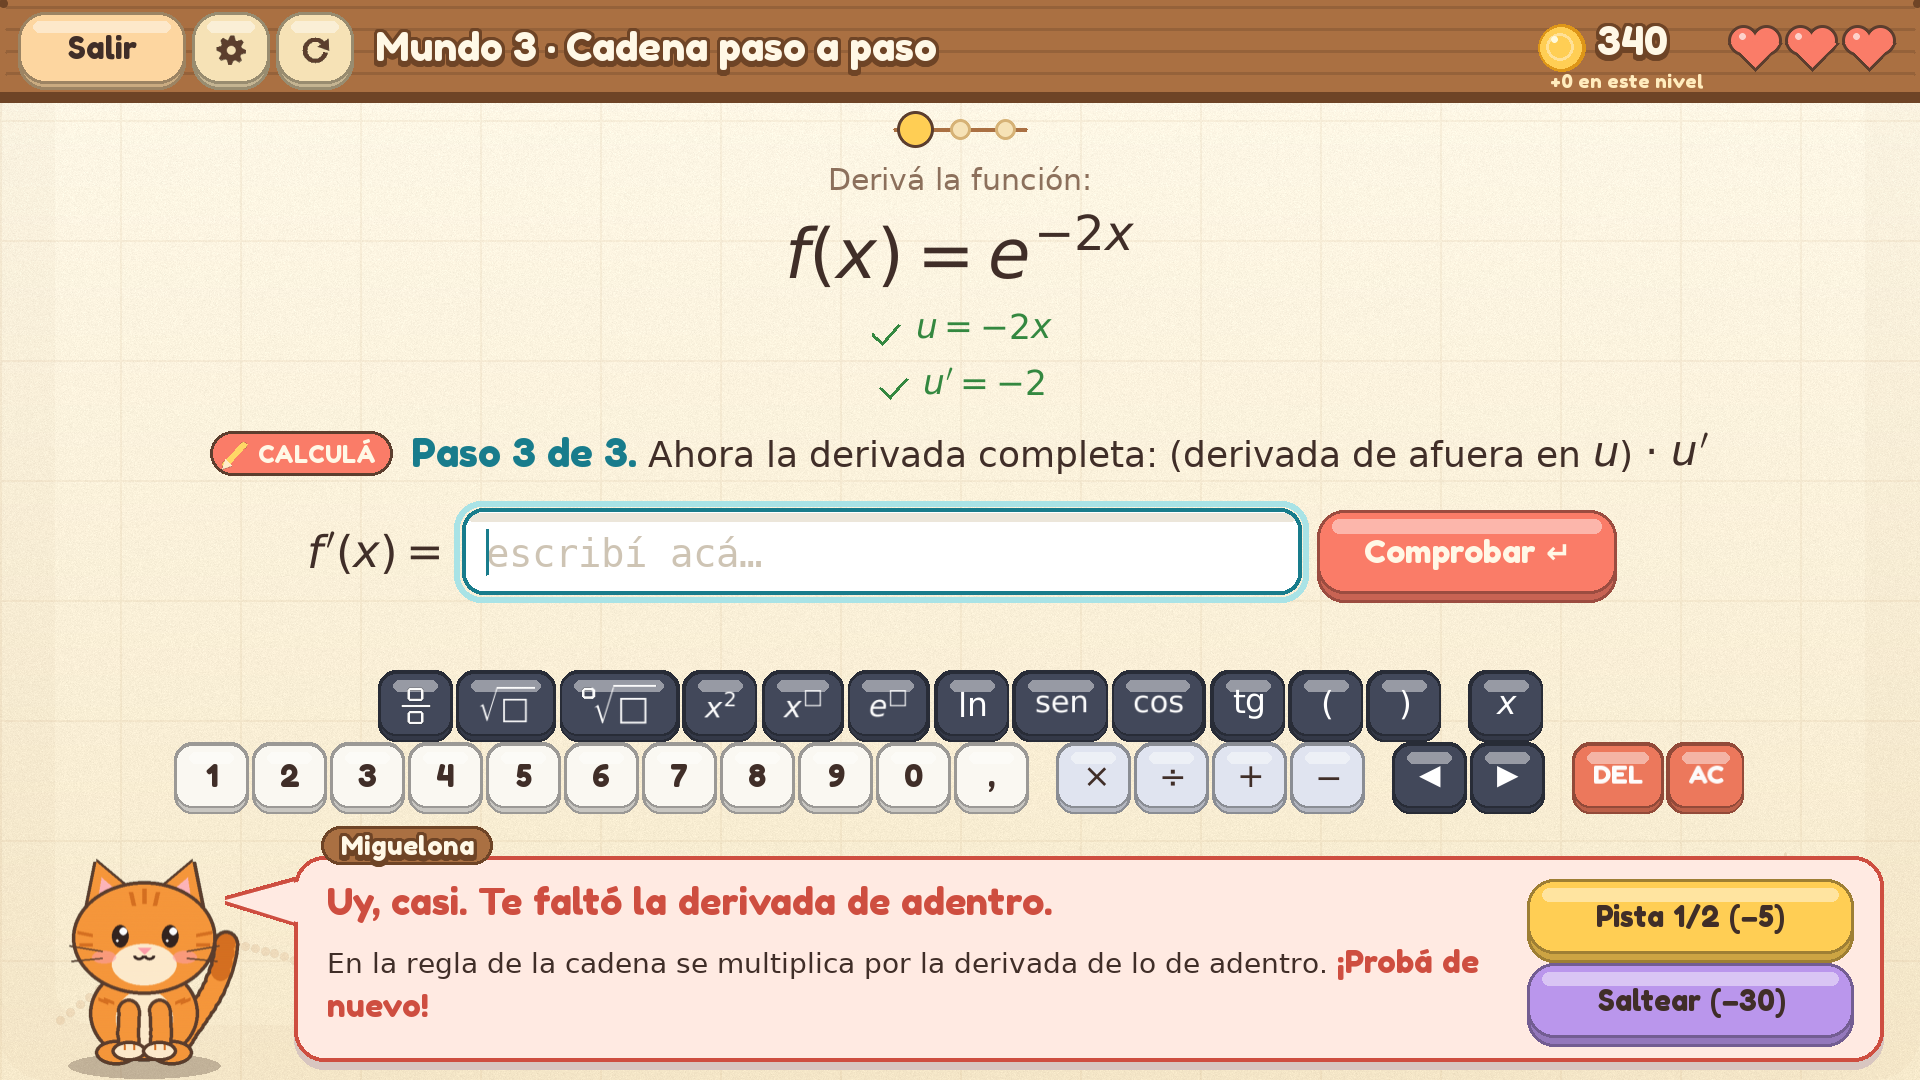
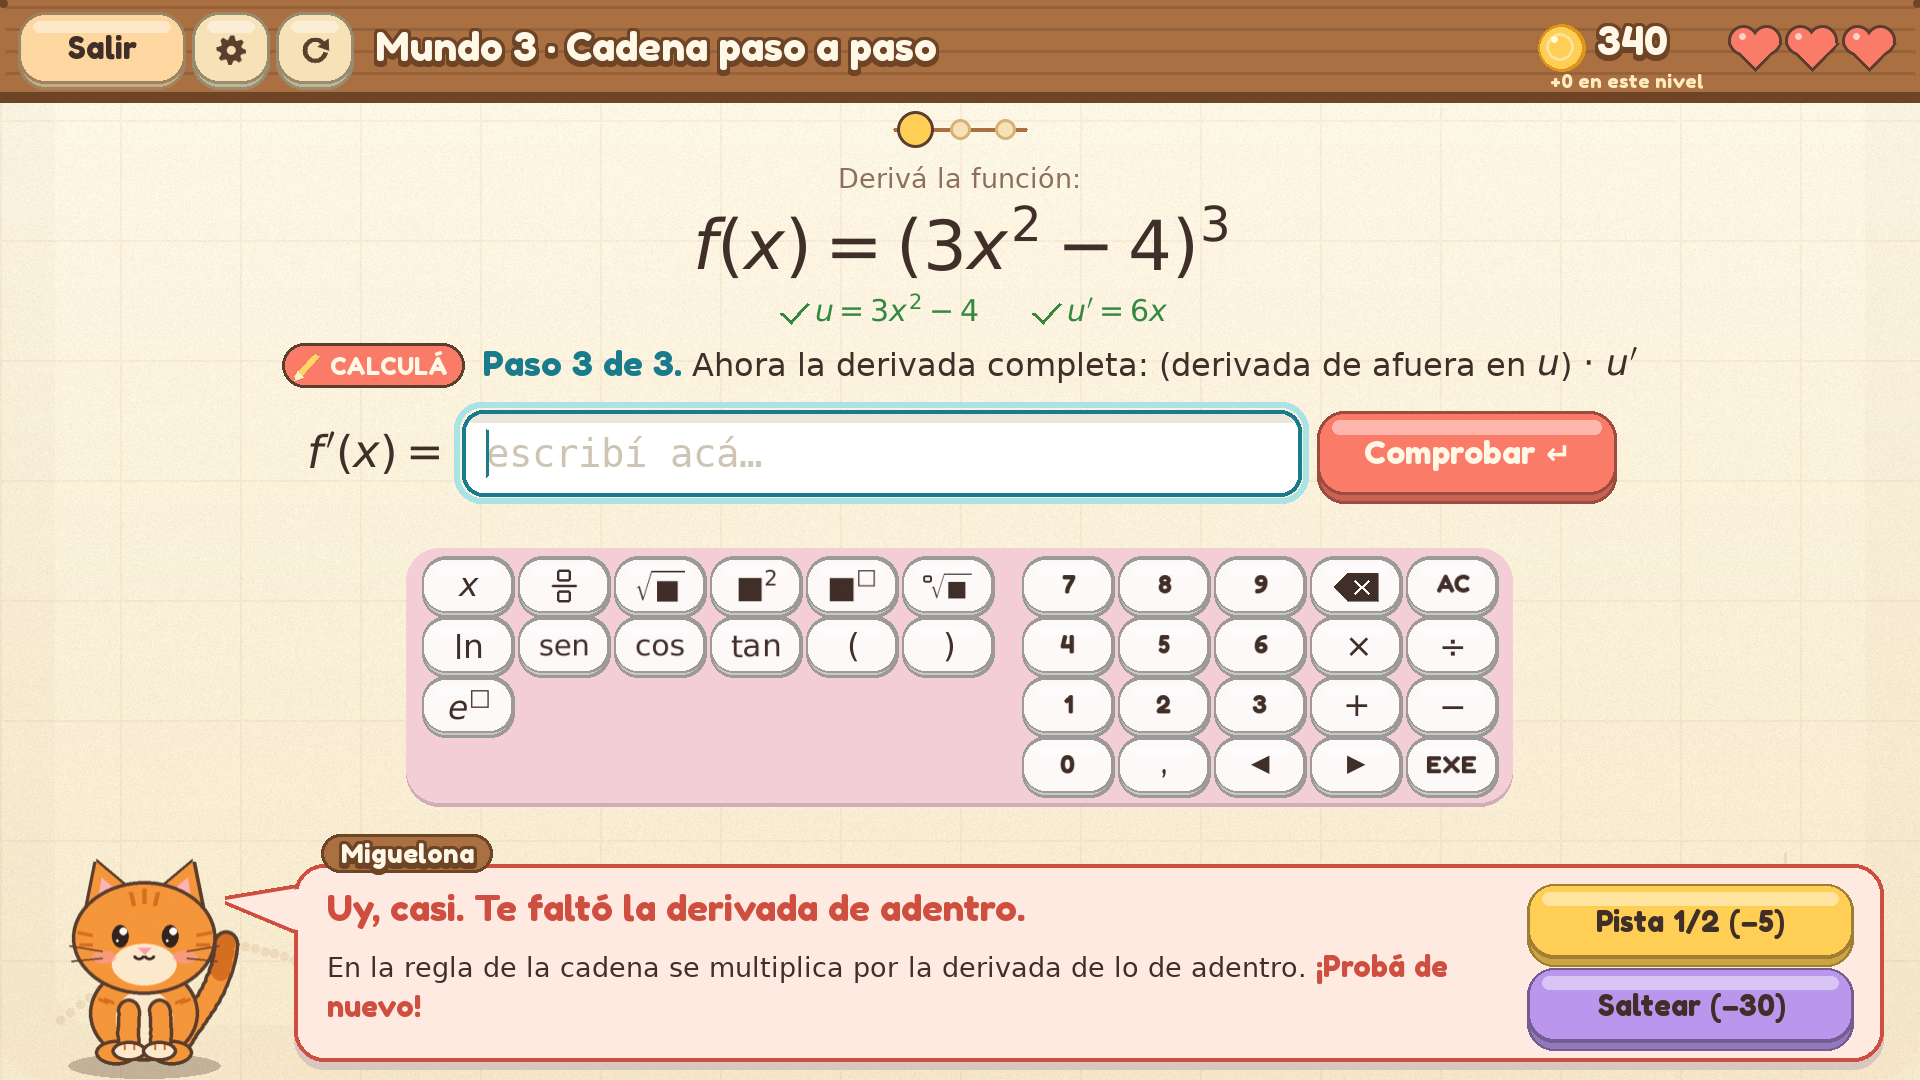
Teclado copiado de la foto de la fx-991LA CW
Con la foto de la calculadora: teclas claras con letra oscura sobre una placa rosa, bloque de
funciones a la izquierda (x, □/□, √■, ■², ■^□ como en la calculadora; ⁿ√■, ln, e^□ y las
variables o + C, que el juego necesita, en el lugar de log y Ans) y bloque numérico a la
derecha igual al de la calculadora (7 8 9 ⌫ AC / 4 5 6 × ÷ / 1 2 3 + − / 0 , ◀ ▶ EXE), con ◀ ▶
en el lugar de ×10^■ y FORMAT. ■ es lo ya escrito y □ lo que falta completar. sen, cos, tan
como la calculadora. EXE comprueba.

El teclado en bloque es más alto: en las pantallas más cargadas las teclas también se achican
un poco (36 → 30 px). Superposición: 7.830 pantallas sin nada pisado.

Claude-Session: https://claude.ai/code/session_01AgBxcwVDKiy9WDAWDw1sef

Changed region(s): [[0.0938, 0.1528, 1.0, 0.9778]]

diff --git a/juego/escenas/nivel_pantalla.py b/juego/escenas/nivel_pantalla.py
@@ -92,21 +92,22 @@ def flecha_reiniciar(sup, centro, tam, color):
 # operaciones, potencias y raíces, funciones. Los extras (y, z, +C, π, e) van al final.
 @dataclass(frozen=True)
 class Tecla:
-    """Una tecla del teclado de fórmulas (como las de la calculadora Casio fx-991LA CW).
-    etiqueta: lo que se ve (LaTeX sin $, o texto). texto: lo que escribe; retroceso: cuántos lugares
-    vuelve el cursor después (para quedar adentro del paréntesis o del casillero). accion: en vez de
-    escribir, mueve el cursor o borra ("izquierda", "derecha", "borrar", "limpiar")."""
+    """Una tecla del teclado de fórmulas, copiado de la calculadora Casio fx-991LA CW.
+    etiqueta: lo que se ve (LaTeX sin $, o texto). Como en la calculadora, ■ es lo que ya escribiste
+    y □ el casillero que falta completar. texto: lo que escribe; retroceso: cuántos lugares vuelve el
+    cursor después (para quedar adentro del paréntesis). accion: en vez de escribir, mueve el cursor,
+    borra o comprueba ("izquierda", "derecha", "borrar", "limpiar", "comprobar")."""
     etiqueta: str
     texto: str = ""
     retroceso: int = 0
-    estilo: str = "funcion"       # funcion | variable | numero | operacion | borrar
     accion: str = ""
     formula: bool = True          # la etiqueta se dibuja como fórmula
-    icono: str = ""               # o se dibuja a mano (fracción, raíz enésima): ver _ICONOS
+    icono: str = ""               # o se dibuja a mano: ver _ICONOS
+    grande: bool = False          # los números, con letra más grande (como en la calculadora)
 
 
 def _icono_fraccion(color):
-    """□ arriba, rayita, □ abajo (como la tecla de fracción de la calculadora)."""
+    """□ arriba, rayita, □ abajo (la tecla de fracción de la calculadora)."""
     s = Lienzo(24, 30)
     dibujo.rect(s, color, (6, 1, 12, 10), 2, border_radius=2)
     dibujo.line(s, color, (2, 15), (22, 15), 2)
@@ -115,52 +116,50 @@ def _icono_fraccion(color):
 
 
 def _icono_raiz_n(color):
-    """Raíz con un □ chiquito de índice y un □ adentro."""
-    raiz = ui.formula(r"\sqrt{□}", 24, color).sup
+    """Raíz con un □ chiquito de índice y ■ adentro."""
+    raiz = ui.formula(r"\sqrt{■}", 24, color).sup
     s = Lienzo(raiz.get_width() + 9, 30)
     dibujo.rect(s, color, (1, 3, 9, 8), 2, border_radius=2)
     s.blit(raiz, (8, 30 - raiz.get_height()))
     return s
 
 
-_ICONOS = {"fraccion": _icono_fraccion, "raiz_n": _icono_raiz_n}
+def _icono_borrar(color):
+    """La tecla de borrar de la calculadora: una flecha-etiqueta negra con una cruz blanca."""
+    s = Lienzo(30, 20)
+    dibujo.polygon(s, color, [(0, 10), (9, 1), (29, 1), (29, 19), (9, 19)])
+    dibujo.line(s, (255, 255, 255), (14, 6), (23, 14), 2)
+    dibujo.line(s, (255, 255, 255), (14, 14), (23, 6), 2)
+    return s
 
 
-# fila de arriba: las teclas oscuras de funciones, con casilleros □ como en la calculadora
-TECLAS_FUNCIONES = [
-    Tecla("□/□", "()/()", 4, icono="fraccion"),
-    Tecla(r"\sqrt{□}", "raiz()", 1),
-    Tecla("ⁿ√□", "raiz[]()", 3, icono="raiz_n"),
-    Tecla("x^{2}", "^2"),
-    Tecla("x^{□}", "^()", 1),
-    Tecla("e^{□}", "e^()", 1),
-    Tecla(r"\ln", "ln()", 1),
-    Tecla(r"\mathrm{sen}", "sen()", 1),
-    Tecla(r"\cos", "cos()", 1),
-    Tecla(r"\mathrm{tg}", "tg()", 1),
-    Tecla("(", "("),
-    Tecla(")", ")"),
+_ICONOS = {"fraccion": _icono_fraccion, "raiz_n": _icono_raiz_n, "borrar": _icono_borrar}
+
+# bloque de funciones (como las dos filas de arriba de la calculadora; ln, e^□ y ⁿ√ no están a la
+# vista en la calculadora pero acá hacen falta, y van en el lugar de log y Ans)
+FILAS_FUNCIONES = [
+    [Tecla("x", "x"), Tecla("□/□", "()/()", 4, icono="fraccion"), Tecla(r"\sqrt{■}", "raiz()", 1),
+     Tecla("■^{2}", "^2"), Tecla("■^{□}", "^()", 1), Tecla("ⁿ√■", "raiz[]()", 3, icono="raiz_n")],
+    [Tecla(r"\ln", "ln()", 1), Tecla(r"\mathrm{sen}", "sen()", 1), Tecla(r"\cos", "cos()", 1),
+     Tecla(r"\tan", "tan()", 1), Tecla("(", "("), Tecla(")", ")")],
+    [Tecla("e^{□}", "e^()", 1)],      # + las variables y + C, o pi y e, según el paso
 ]
-# fila de abajo: números y operaciones (claras), flechas, y DEL / AC
-TECLAS_NUMEROS = [Tecla(n, n, estilo="numero", formula=False) for n in "1234567890,"]
-TECLAS_OPERACIONES = [Tecla(r"\times", "*", estilo="operacion"), Tecla(r"\div", "/", estilo="operacion"),
-                      Tecla("+", "+", estilo="operacion"), Tecla("-", "-", estilo="operacion")]
-TECLAS_EDICION = [Tecla("◀", accion="izquierda", formula=False), Tecla("▶", accion="derecha", formula=False),
-                  Tecla("DEL", accion="borrar", estilo="borrar", formula=False),
-                  Tecla("AC", accion="limpiar", estilo="borrar", formula=False)]
-
-def _otro_grupo(anterior, tecla):
-    """Entre grupos de teclas (funciones, variables, números, operaciones, flechas, DEL/AC) va un espacio."""
-    return tecla.estilo != anterior.estilo or (bool(tecla.accion) and not anterior.accion)
-
-
-ESTILOS_TECLA = {             # (fondo, letra)
-    "funcion": ((66, 72, 90), (255, 255, 255)),
-    "variable": ((66, 72, 90), (255, 255, 255)),
-    "numero": ((250, 248, 242), TINTA),
-    "operacion": ((224, 228, 240), TINTA),
-    "borrar": ((236, 120, 92), (255, 255, 255)),
-}
+# bloque numérico, igual que la calculadora (con ◀ ▶ en el lugar de ×10^■ y FORMAT)
+FILAS_NUMEROS = [
+    [Tecla("7", "7", formula=False, grande=True), Tecla("8", "8", formula=False, grande=True),
+     Tecla("9", "9", formula=False, grande=True), Tecla("DEL", accion="borrar", icono="borrar"),
+     Tecla("AC", accion="limpiar", formula=False)],
+    [Tecla("4", "4", formula=False, grande=True), Tecla("5", "5", formula=False, grande=True),
+     Tecla("6", "6", formula=False, grande=True), Tecla(r"\times", "*"), Tecla(r"\div", "/")],
+    [Tecla("1", "1", formula=False, grande=True), Tecla("2", "2", formula=False, grande=True),
+     Tecla("3", "3", formula=False, grande=True), Tecla("+", "+"), Tecla("-", "-")],
+    [Tecla("0", "0", formula=False, grande=True), Tecla(",", ",", formula=False, grande=True),
+     Tecla("◀", accion="izquierda", formula=False), Tecla("▶", accion="derecha", formula=False),
+     Tecla("EXE", accion="comprobar", formula=False)],
+]
+TECLA_FONDO, TECLA_LETRA = (253, 249, 248), TINTA          # teclas claras con letra oscura
+CALCULADORA = (244, 206, 214)                               # el rosa de la calculadora, de fondo
+TECLA_ANCHO, TECLA_HUECO = 58, 6       # (el alto depende de cuánto haya que compactar la pantalla)
 
 
 PIE_GATO = (96, ALTO - 8)
@@ -179,34 +178,50 @@ class PantallaNivel:
     """La parte visual de Juego (se usa como clase madre, junto con Escena)."""
 
     def _teclado(self):
-        """Las dos filas del teclado para este paso: funciones (más x, y, z, + C o pi y e, según haga
-        falta) y números con operaciones y edición."""
-        extra = [Tecla(str(v), str(v), estilo="variable") for v in self.paso.variables]
+        """Los dos bloques del teclado para este paso: funciones (con las variables y + C, o pi y e,
+        según haga falta) y números."""
+        funciones = [list(f) for f in FILAS_FUNCIONES]
+        extra = [Tecla(str(v), str(v)) for v in self.paso.variables if str(v) != "x"]
         if self.paso.chequeo == "primitiva":
-            extra.append(Tecla(r"+\,C", "+C", estilo="variable"))
+            extra.append(Tecla(r"+\,C", "+C"))
         if self.paso.chequeo == "numero":
-            extra += [Tecla(r"\pi", "pi", estilo="variable"), Tecla("e", "e", estilo="variable")]
-        return [TECLAS_FUNCIONES + extra, TECLAS_NUMEROS + TECLAS_OPERACIONES + TECLAS_EDICION]
+            extra += [Tecla(r"\pi", "pi"), Tecla("e", "e")]
+        funciones[-1] += extra
+        return funciones, FILAS_NUMEROS
 
-    def _boton_tecla(self, tecla, x, y, w):
-        fondo, letra = ESTILOS_TECLA[tecla.estilo]
+    def _boton_tecla(self, tecla, rect):
         if tecla.icono:
-            contenido, tam = _ICONOS[tecla.icono](letra), 19
+            contenido = _ICONOS[tecla.icono](TECLA_LETRA)
         elif tecla.formula:
-            contenido, tam = ui.formula(tecla.etiqueta, 22, letra).sup, 19
+            contenido = ui.formula(tecla.etiqueta, 22, TECLA_LETRA).sup
         else:
-            contenido, tam = tecla.etiqueta, (16 if len(tecla.etiqueta) > 1 else 19)
+            contenido = tecla.etiqueta
         acciones = {"izquierda": self.campo.izquierda, "derecha": self.campo.derecha,
-                    "borrar": self.campo.borrar_atras, "limpiar": lambda: self.campo.poner("")}
+                    "borrar": self.campo.borrar_atras, "limpiar": lambda: self.campo.poner(""),
+                    "comprobar": self.comprobar}
         accion = acciones.get(tecla.accion) or (lambda t=tecla: self.campo.insertar(t.texto, t.retroceso))
-        return Boton((x, y, w, 40), contenido, accion, fondo, letra, tam=tam, radio=10, relieve=4, sonido="tecla")
+        return Boton(rect, contenido, accion, TECLA_FONDO, TECLA_LETRA, tam=22 if tecla.grande else 16,
+                     radio=14, relieve=3, sonido="tecla")
 
-    def _ancho_tecla(self, tecla):
-        if tecla.icono:
-            return max(46, _ICONOS[tecla.icono]((0, 0, 0)).get_width() + 22)
-        if tecla.formula:
-            return max(46, ui.formula(tecla.etiqueta, 22).sup.get_width() + 22)
-        return max(46, ui.texto(tecla.etiqueta, 16, negrita=True).get_width() + 24)
+    def _armar_teclado(self, y, alto_tecla):
+        """El teclado como en la calculadora: bloque de funciones a la izquierda y números a la derecha,
+        sobre una placa del color de la calculadora. Devuelve dónde termina."""
+        funciones, numeros = self._teclado()
+        paso = TECLA_ANCHO + TECLA_HUECO
+        cols_f = max(len(f) for f in funciones)
+        cols_n = max(len(f) for f in numeros)
+        separacion = 22
+        ancho = (cols_f + cols_n) * paso - 2 * TECLA_HUECO + separacion
+        filas = max(len(funciones), len(numeros))
+        alto = filas * (alto_tecla + TECLA_HUECO) - TECLA_HUECO
+        x0 = self._x_fila(ancho + 24, y) + 12
+        self.placa_teclado = pygame.Rect(x0 - 12, y - 8, ancho + 24, alto + 16)
+        for bloque, x_bloque in ((funciones, x0), (numeros, x0 + cols_f * paso - TECLA_HUECO + separacion)):
+            for i, fila in enumerate(bloque):
+                for j, tecla in enumerate(fila):
+                    rect = (x_bloque + j * paso, y + i * (alto_tecla + TECLA_HUECO), TECLA_ANCHO, alto_tecla)
+                    self.botones.append(self._boton_tecla(tecla, rect))
+        return y + alto + 8
 
     def _boton_saltear(self, rect):
         """Saltear el ejercicio: una vez por nivel, cuesta monedas (en los jefes no se puede)."""
@@ -237,12 +252,18 @@ class PantallaNivel:
     # los botones de Pista y Saltear. El ejercicio va arriba de esa franja y NUNCA se pisa con ella:
     # si no entra, se va compactando de a poco (menos aire, fórmulas más chicas, pasos en una línea).
     COMPACTOS = (
-        # aire, alto fórmula, alto gráfico, tam pregunta, tam pasos, pasos en línea, alto opciones, alto "Leo", tam globo
-        dict(aire=1.0, formula=None, grafico=None, pregunta=24, pasos=20, en_linea=False, opcion=84, leo=44, globo=19),
-        dict(aire=0.7, formula=96, grafico=300, pregunta=22, pasos=18, en_linea=False, opcion=72, leo=34, globo=19),
-        dict(aire=0.5, formula=76, grafico=260, pregunta=21, pasos=17, en_linea=True, opcion=62, leo=30, globo=18),
-        dict(aire=0.4, formula=62, grafico=220, pregunta=20, pasos=16, en_linea=True, opcion=54, leo=28, globo=17),
-        dict(aire=0.3, formula=50, grafico=180, pregunta=19, pasos=15, en_linea=True, opcion=48, leo=26, globo=16),
+        # aire, alto fórmula, alto gráfico, tam pregunta, tam pasos, pasos en línea, alto opciones, alto "Leo",
+        # tam globo, alto de las teclas
+        dict(aire=1.0, formula=None, grafico=None, pregunta=24, pasos=20, en_linea=False, opcion=84, leo=44, globo=19,
+             tecla=36),
+        dict(aire=0.7, formula=96, grafico=300, pregunta=22, pasos=18, en_linea=False, opcion=72, leo=34, globo=19,
+             tecla=36),
+        dict(aire=0.5, formula=76, grafico=260, pregunta=21, pasos=17, en_linea=True, opcion=62, leo=30, globo=18,
+             tecla=34),
+        dict(aire=0.4, formula=62, grafico=220, pregunta=20, pasos=16, en_linea=True, opcion=54, leo=28, globo=17,
+             tecla=32),
+        dict(aire=0.3, formula=50, grafico=180, pregunta=19, pasos=15, en_linea=True, opcion=48, leo=26, globo=16,
+             tecla=30),
     )
 
     MARGEN = 12          # entre la franja del gato y el borde de abajo
@@ -263,6 +284,7 @@ class PantallaNivel:
                         self.boton_opciones((130, 10, 48, 44)),
                         Boton((186, 10, 48, 44), icono, self.reiniciar, ARENA, relieve=4)]
         self.capas = []
+        self.placa_teclado = None
         respondiendo = self.estado == "pregunta"
 
         # 1) la franja del gato, de abajo para arriba: así se sabe cuánto lugar le queda al ejercicio
@@ -388,19 +410,7 @@ class PantallaNivel:
         y += c["leo"]
         if not respondiendo:
             return y
-        hueco = 16   # espacio entre grupos de teclas (funciones, números, operaciones, edición)
-        for fila in self._teclado():
-            anchos = [self._ancho_tecla(t) for t in fila]
-            grupos = [k > 0 and _otro_grupo(fila[k - 1], fila[k]) for k in range(len(fila))]
-            total = sum(anchos) + 6 * (len(fila) - 1) + hueco * sum(grupos)
-            x = self._x_fila(total, y)
-            for tecla, w, nuevo_grupo in zip(fila, anchos, grupos, strict=True):
-                if nuevo_grupo:
-                    x += hueco
-                self.botones.append(self._boton_tecla(tecla, x, y, w))
-                x += w + 6
-            y += 48
-        return y
+        return self._armar_teclado(y + 8, c["tecla"])
 
     def _x_fila(self, total, y):
         """Dónde empieza una fila del teclado: centrada en el ejercicio, sin salirse de la pantalla y,
@@ -586,6 +596,10 @@ class PantallaNivel:
                     sup.blit(fm, (x + et.get_width() + 12, cy - fm.get_height() // 2))
                 else:
                     centrar(sup, ui.texto(self.preview[1], 18, SUAVE), self.y_preview + 6, self.cx)
+        if self.placa_teclado:            # el cuerpo de la calculadora, detrás de las teclas
+            placa = self.placa_teclado.move(dx, 0)
+            dibujo.rect(sup, ui.oscurecer(CALCULADORA, 0.85), placa.move(0, 3), border_radius=22)
+            dibujo.rect(sup, CALCULADORA, placa, border_radius=22)
         for b in self.botones:
             b.dibujar(sup, dx if b.rect.top > 90 else 0)
         # el gato y su globito

diff --git a/tests/test_teclado.py b/tests/test_teclado.py
@@ -1,4 +1,4 @@
-"""El teclado de fórmulas (tipo calculadora) escribe cosas que el juego entiende.
+"""El teclado de fórmulas (copiado de la Casio fx-991LA CW) escribe cosas que el juego entiende.
 
 - Cada tecla de función deja el cursor en su casillero y, al completarla, la fórmula se entiende.
 - En una fracción (tecla □/□), → pasa del numerador al denominador y ← vuelve, como en la calculadora.
@@ -16,7 +16,7 @@ import pygame  # noqa: E402
 pygame.init()
 pygame.display.set_mode((64, 64))
 
-from juego.escenas.nivel_pantalla import TECLAS_FUNCIONES, TECLAS_OPERACIONES  # noqa: E402
+from juego.escenas.nivel_pantalla import FILAS_FUNCIONES, FILAS_NUMEROS  # noqa: E402
 from juego.mate import parsear, x  # noqa: E402
 from juego.ui import CampoTexto  # noqa: E402
 
@@ -26,7 +26,10 @@ def campo():
 
 
 def test_cada_tecla_de_funcion_se_entiende():
-    for tecla in TECLAS_FUNCIONES + TECLAS_OPERACIONES:
+    teclas = [t for fila in FILAS_FUNCIONES + FILAS_NUMEROS for t in fila if t.texto and not t.texto.isdigit()
+              and t.texto not in (",", "x")]
+    assert len(teclas) >= 14, teclas
+    for tecla in teclas:
         c = campo()
         c.insertar("2")
         c.insertar(tecla.texto, tecla.retroceso)

diff --git a/LEEME.md b/LEEME.md
@@ -30,10 +30,12 @@ Un juego para aprender a derivar e integrar, de a un paso por vez: desde la regl
 - **Integrales dobles**: te muestra el dibujo de la región.
 - **Cada mundo es una isla distinta**: de la Isla Serena a la Isla Calavera, cada vez un poco más misteriosas.
 - **Tu michi tiene nombre**: se lo ponés la primera vez (y lo cambiás tocando su cartelito en el menú).
-- **Teclado de fórmulas** como el de la calculadora Casio fx-991LA CW: teclas oscuras de funciones con
-  casilleros (□/□, √□, ⁿ√□, x², x^□, e^□, ln, sen, cos, tg) y teclas claras de números y operaciones, con
-  ◀ ▶, DEL y AC (anda con pantalla táctil). En una fracción, ▶ pasa del numerador al denominador. La ayuda
-  para escribir fórmulas está abajo a la derecha del menú. Los paréntesis se colorean por pareja. El punto
+- **Teclado de fórmulas** copiado de la calculadora Casio fx-991LA CW: teclas claras sobre una placa rosa,
+  con el bloque de funciones a la izquierda (x, □/□, √■, ■², ■^□, ⁿ√■, ln, sen, cos, tan, paréntesis, e^□
+  y las variables o + C) y el de números a la derecha (7 8 9 ⌫ AC / 4 5 6 × ÷ / 1 2 3 + − / 0 , ◀ ▶ EXE).
+  Como en la calculadora, ■ es lo que ya escribiste y □ lo que falta completar; en una fracción, ▶ pasa del
+  numerador al denominador, y EXE comprueba. Anda con pantalla táctil. La ayuda para escribir fórmulas
+  está abajo a la derecha del menú. Los paréntesis se colorean por pareja. El punto
   también multiplica (`2.x`); los decimales van con coma (`0,5`).
 - **Detective de errores**: a veces te muestran la resolución de otra persona y tenés que encontrar el error.
 - **PENSÁ / CALCULÁ**: cada consigna dice si es de razonar o de hacer la cuenta (y cambia la música).
